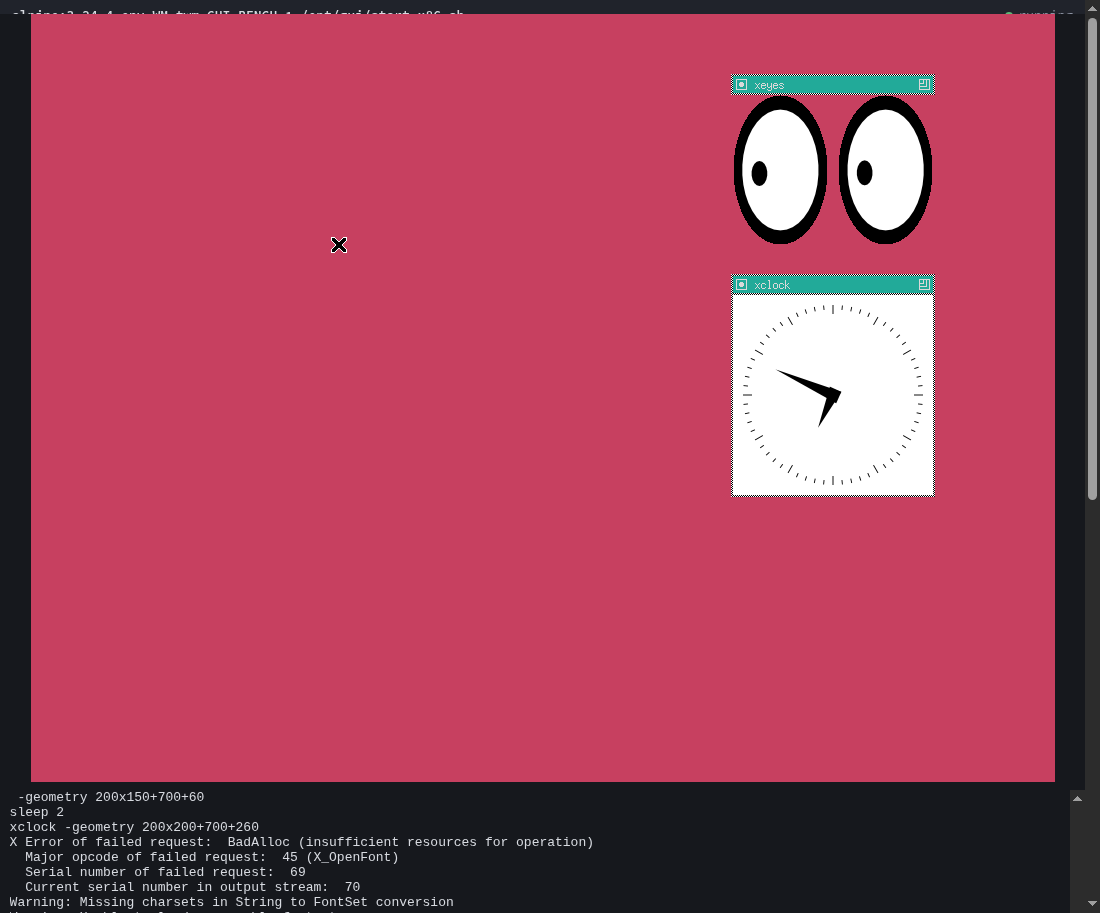
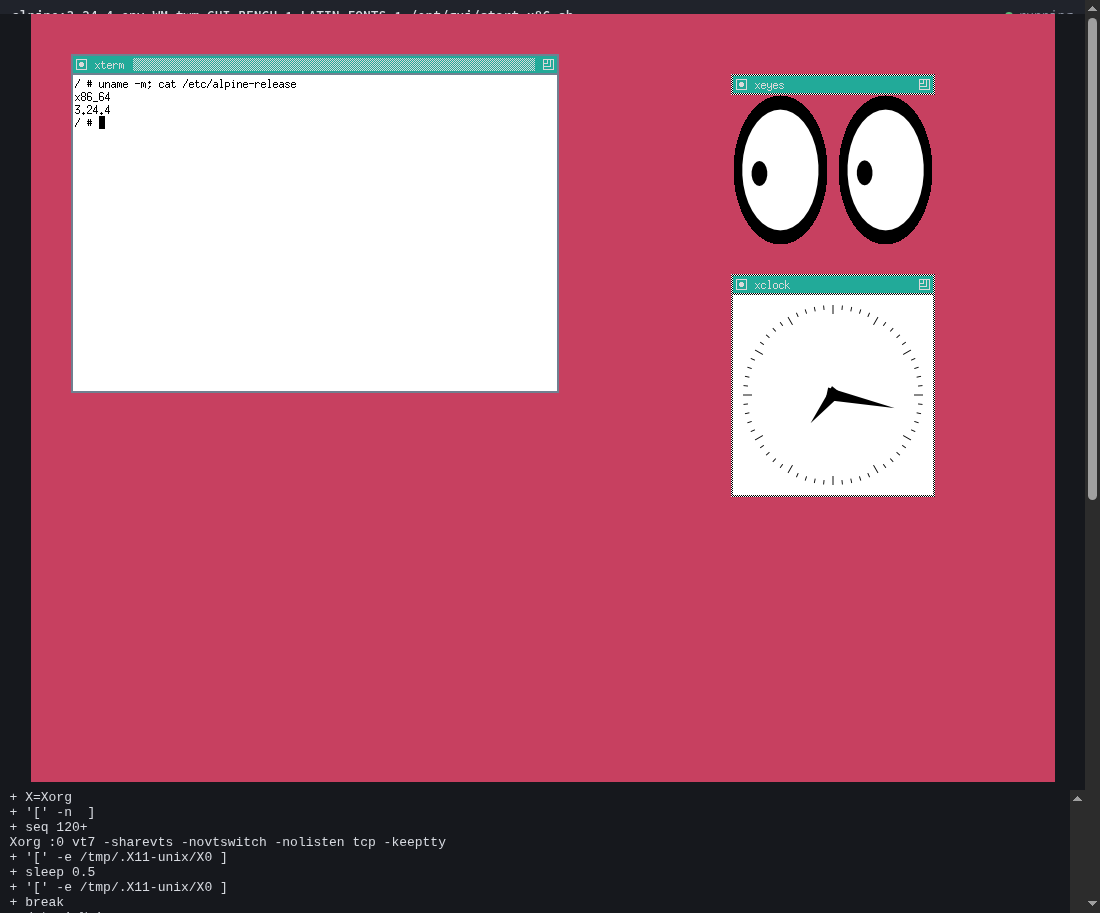
tabc-pisco: xterm on the lifted x86-64 desktop (Latin fonts), 1.3 to 1.5 times faster than arm64 on kwemu
The runtime's log of opened files showed lifted libXfont2 rejecting fonts of two-byte
encodings (12x13ja, iso10646); with the Latin fonts only, xterm runs lifted, and the
desktops are compared on the same fonts.

Changed region(s): [[0.0618, 0.0613, 0.5255, 0.4294], [0.0, 0.8587, 0.4327, 1.0], [0.7109, 0.3987, 0.8036, 0.46]]

diff --git a/docs/research/linux-gui.md b/docs/research/linux-gui.md
@@ -35,12 +35,14 @@ what makes it slow.
   lifted again for each program that mapped it elsewhere: 23 of the 52 images an x86-64 desktop met were such
   repeats. Each library now gets an address of its own (from its path), and its image is made the same in every
   program: no large library is lifted twice any more (before: libraries of 0.1 to 1.4 MB, up to five times).
-- **Fast where it is lifted, with two holes.** The x86-64 desktop, lifted: Xorg, twm, xeyes and xclock draw and
-  answer (![](../img/linux-gui-x86-64.png)), apk installs the desktop in 24 s against 40 s for arm64 on kwemu; the
-  picture costs the kernel's thread 3 to 5 times less than with the SDK's `frame()`. The holes: a process starts
-  in 30 ms against 19 (`xsetroot` 200 times in the running desktop: 6.1 s against 3.8), and lifted Xorg answers
-  xterm's `OpenFont` with BadAlloc (twm's opens), so xterm does not run on the x86-64 desktop yet
-  ([Fast](#4-fast)).
+- **The x86-64 desktop, lifted, and faster than arm64 on kwemu where programs run.** Xorg, twm, xterm, xeyes and
+  xclock, all x86-64 and lifted; typed into xterm, `uname -m` answers `x86_64`:
+  ![twm, xterm, xeyes and xclock, x86-64, lifted](../img/linux-gui-x86-64.png)
+  Side by side with the same desktop on arm64 (kwemu): xterm starts in 0.38 to 0.52 s against 0.54 to 0.58, scrolls
+  20,000 lines in 1.1 to 1.3 s against 1.6; apk installs it in 23 s against 25. Starting processes is 1.5 times
+  slower (`xsetroot` 200 times: 5.3 s against 3.6). The picture costs the kernel's thread 3 to 5 times less than
+  with the SDK's `frame()`. One bug left: lifted Xorg rejects fonts of two-byte encodings (xterm's wide font), so
+  the desktop runs with the Latin fonts only ([Fast](#4-fast)).
 
 ## 1. A desktop in a tab
 
@@ -157,27 +159,31 @@ In the same runs xterm's start took 3.0 to 7.0 s against 7.9 to 13.3 s, and its 
 
 ### The desktops side by side
 
-`bench.sh` in the running desktop (twm on both, `WM=twm`; the lift runner paused, nothing else running; one run
-each, after a warm-up run; the packages from a local cache):
+`bench.sh` in the running desktop, the same on both: twm (`WM=twm`), the Latin bitmap fonts only (`LATIN_FONTS=1`,
+below), the packages from a local cache, the lift runner paused and nothing else running; one run each, after a
+warm-up run:
 
 | | arm64, kwemu | x86-64, PISCO (lifted) |
 |---|---|---|
-| `apk add` of the desktop (from the cache) | 40 s | 24 to 27 s |
-| Xorg up | 1 s | 1 to 2 s |
-| `xsetroot` 200 times (a process start and a few requests each) | 3.8 s | 6.0 to 6.1 s |
-| xterm start, scroll of 20,000 lines | 0.84 to 1.36 s, 1.72 to 1.98 s | not run: `OpenFont` fails (below) |
+| `apk add` of the desktop | 25 s | 23 s |
+| Xorg up | under 1 s | 1 s |
+| xterm start (the first, then three more) | 0.83 s, then 0.54 to 0.58 s | 1.26 s, then 0.38 to 0.52 s |
+| xterm, `seq 1 20000` scrolled through it | 1.56 to 1.61 s | 1.08 to 1.28 s |
+| `xsetroot` 200 times (a process start and a few requests each) | 3.6 s | 5.3 s |
 
-Without an X server the process start is closer: `xsetroot` failing to connect, 50 times, 1.2 to 1.4 s on arm64
-against 1.6 to 2.3 s lifted; `/bin/true` 50 times, 0.43 to 0.51 s against 0.71 to 0.77 s. What a lifted process
-pays more at its start is not known yet (each new address space looks its programs up again: `programs_forget`).
+Lifted, the desktop is 1.3 to 1.5 times faster on what runs in a program (xterm's start and its scroll: xterm, Xlib
+and Xorg drawing text through pixman), and 1.5 times slower on starting processes. Without an X server the process
+start is closer: `xsetroot` failing to connect, 50 times, 1.2 to 1.4 s on arm64 against 1.6 to 2.3 s lifted;
+`/bin/true` 50 times, 0.43 to 0.51 s against 0.71 to 0.77 s. What a lifted process pays more at its start is not
+known yet (each new address space looks its programs up again: `programs_forget`).
 
-**Two bugs of the lifted desktop.** Lifted Xorg answers xterm's `X_OpenFont` with BadAlloc (by default, with
-`-fn 6x13`, with the font's full XLFD, with `-fa monospace`), while twm, started before it, opens its font set; the
-same packages on arm64 open both. And once (the run with `-fn fixed`), Xorg was gone a few seconds after it started
-(`Can't open display`). Neither is found yet. The
-first is in the server: with Xorg run on qemu-user (`/.pisco/qemu-x86_64 /usr/libexec/Xorg`) and every client
-lifted, xterm opens its font and shows its prompt beside twm, xeyes and xclock. That Xorg gets no input, though:
-qemu-user does not pass evdev's ioctls, so it has no keyboard or mouse (the lifted Xorg has both).
+**The fonts.** With all of Alpine's bitmap fonts, lifted Xorg answers xterm's `X_OpenFont` with BadAlloc. The
+runtime's log of the files Xorg opens shows which: after `nil2` and `6x13B` (which load), `12x13ja`, the font xterm
+asks for wide characters, and then the iso10646 ones; every failure of libXfont2's PCF reader returns AllocError,
+whatever the reason. Fonts of one-byte encodings (ISO 8859) load; fonts of two-byte encodings do not, in the lifted
+libXfont2 only (arm64 loads them, and an Xorg run on qemu-user with every client lifted does too). The lifted
+instruction that goes wrong is not found yet; `LATIN_FONTS=1` removes the others so that xterm, whose wide font
+then falls back, runs. Once, with them, Xorg was also gone a few seconds after it started.
 
 **Fixed on the way.** The runtime registered at most 64 programs (a desktop maps more: xterm's 65th library got
 SIGILL); now 1024. The lifter had no 16-bit `idiv` in 64-bit code (libfreetype's `idiv si`: fc-cache got
@@ -225,7 +231,7 @@ on it:
   program's size; a lift a task waits for and the runner's lift of the same program wait on one lock file, so a
   stopped runner stops that task (it happened while the runner was paused for a benchmark); the queue is lifted
   oldest first, with no notion of what the desktop needs first.
-- **Lifted Xorg's two bugs** (above): xterm's fonts, and one exit.
+- **Lifted Xorg's two bugs** (above): fonts of two-byte encodings, and one exit.
 - A program loaded with `dlopen` after it has done work waits for its lift (asleep, the others run): lifted Xorg
   waited about a minute for its five modules the first time.
 - PISCO needs the one-CPU kernel; the desktop runs on one CPU.
